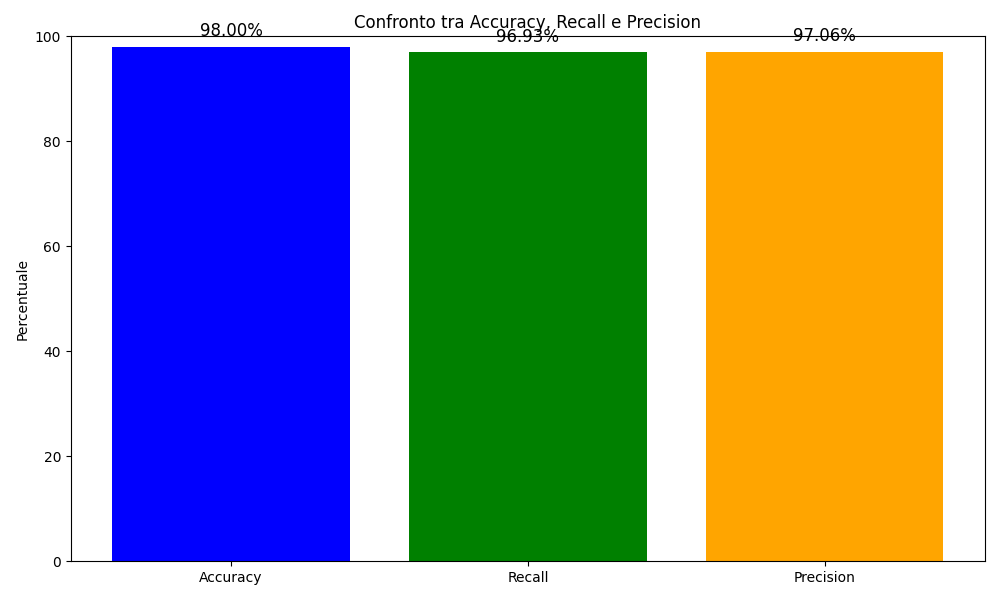
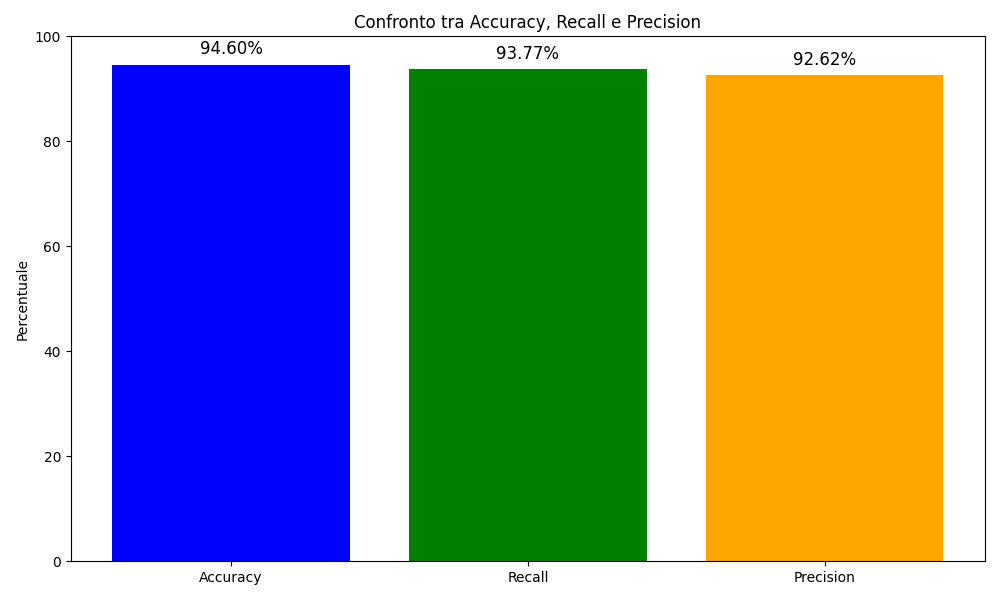
Fix: aggiunta normalizzazione al modello

Changed region(s): [[0.682, 0.03, 0.961, 0.15], [0.093, 0.03, 0.372, 0.12], [0.403, 0.03, 0.651, 0.12]]

diff --git a/model.py b/model.py
@@ -1,39 +1,38 @@
 from tensorflow.keras import layers, models, Sequential
 from tensorflow.keras.preprocessing.image import ImageDataGenerator
-from tensorflow.keras import optimizers
 import tensorflow as tf
 
-import tensorflow as tf
-from tensorflow.keras import layers, Sequential
-
-
-def create_model(input_shape=(None, None, 3), num_classes=43):
-    """Definisce e restituisce il modello CNN con normalizzazione e regolarizzazione."""
+def create_model(input_shape=(30, 30, 3), num_classes=43):
+    """Definisce e restituisce il modello CNN con l'architettura aggiornata e Batch Normalization."""
     model = Sequential()
+
+    # Primo blocco di convoluzione
     model.add(layers.Conv2D(filters=32, kernel_size=(5, 5), activation='relu', input_shape=input_shape))
-    model.add(layers.BatchNormalization())
-    model.add(layers.Conv2D(filters=64, kernel_size=(5, 5), activation='relu'))
-    model.add(layers.BatchNormalization())
+    model.add(layers.BatchNormalization())  # <-- Batch Normalization
+    model.add(layers.Conv2D(filters=64, kernel_size=(3, 3), activation='relu'))
+    model.add(layers.BatchNormalization())  # <-- Batch Normalization
     model.add(layers.MaxPool2D(pool_size=(2, 2)))
     model.add(layers.Dropout(rate=0.15))
+
+    # Secondo blocco di convoluzione
     model.add(layers.Conv2D(filters=128, kernel_size=(3, 3), activation='relu'))
-    model.add(layers.BatchNormalization())
-    model.add(layers.Conv2D(filters=256, kernel_size=(3, 3), activation='relu'))
-    model.add(layers.BatchNormalization())
+    model.add(layers.BatchNormalization())  # <-- Batch Normalization
     model.add(layers.MaxPool2D(pool_size=(2, 2)))
-    model.add(layers.Dropout(rate=0.20))
-
-    # Sostituiamo Flatten con GlobalAveragePooling2D per input dinamici
-    model.add(layers.GlobalAveragePooling2D())
-
-    model.add(layers.Dense(512, activation='relu'))
-    model.add(layers.BatchNormalization())
     model.add(layers.Dropout(rate=0.25))
+
+    # Parte fully connected
+    model.add(layers.Flatten())
+    model.add(layers.Dense(256, activation='relu'))
+    model.add(layers.BatchNormalization())  # <-- Batch Normalization
+    model.add(layers.Dropout(rate=0.5))
     model.add(layers.Dense(num_classes, activation='softmax'))
 
-    model.compile(optimizer=tf.keras.optimizers.Adam(learning_rate=0.001),
-                  loss="categorical_crossentropy",
-                  metrics=["accuracy"])
+    # Compilazione del modello
+    model.compile(
+        optimizer=tf.keras.optimizers.Adam(learning_rate=0.001),
+        loss='categorical_crossentropy',
+        metrics=['accuracy']
+    )
 
     return model
 

diff --git a/main.py b/main.py
@@ -1,4 +1,4 @@
-import data_preprocessing
+from data_preprocessing import load_data, split_data, get_data_generators
 from model import create_model
 from training import train_model
 from evaluation import evaluate_model
@@ -12,22 +12,18 @@ dir = "../MoodRipple/gtsrb-german-traffic-sign"
 test_labels_path = "../MoodRipple/gtsrb-german-traffic-sign/Test.csv"
 train_labels_path = "../MoodRipple/gtsrb-german-traffic-sign/Train.csv"
 img_size = (30, 30)
-epochs = 20
+epochs = 15
 batch_size = 128
-model_save_path = "models/20_epoche/model.h5"
+model_save_path = "models/15_epoche/model.h5"
 
 def main():
     # Caricamento e preprocessing del dataset prima e dopo il bilanciamento
-    train_images_balanced, train_labels_balanced = data_preprocessing.load_data(train_labels_path, dir)
-    test_images, test_labels = data_preprocessing.load_data(test_labels_path, dir)
+    train_images, train_labels = load_data(train_labels_path, dir, img_size)
+    train_images, val_images, train_labels, val_labels = split_data(train_images, train_labels)
 
-
-
-    # Suddivisione in training e validation
-    train_images, val_images, train_labels, val_labels = data_preprocessing.split_data(train_images_balanced, train_labels_balanced)
-
+    test_images, test_labels = load_data(test_labels_path, dir, img_size)
     # Creazione dei generatori
-    train_generator, val_generator = data_preprocessing.get_data_generators(train_images, train_labels, val_images, val_labels, batch_size)
+    train_generator, val_generator = get_data_generators(train_images, train_labels, val_images, val_labels, batch_size)
 
     # Calcolo dei pesi delle classi per bilanciare il training
     y_train = np.argmax(train_labels, axis=1)
@@ -38,7 +34,7 @@ def main():
     print("[INFO] Pesi delle classi calcolati in main.py:", class_weights)
 
     # Creazione del modello
-    model = create_model(input_shape=(None,None, 3), num_classes=num_classes)
+    model = create_model(input_shape=(img_size[0], img_size[1], 3), num_classes=train_labels.shape[1])
 
     # Addestramento del modello con pesi delle classi calcolati
     history = train_model(model, train_generator, val_generator, num_classes, epochs, class_weights=class_weights)

diff --git a/gui/app.py b/gui/app.py
@@ -14,7 +14,7 @@ os.makedirs(UPLOAD_FOLDER, exist_ok=True)
 app.config["UPLOAD_FOLDER"] = UPLOAD_FOLDER
 
 # Caricamento del modello
-model_path = "models/15_epoche/model.h5"
+model_path = "models/20_epoche/model.h5"
 model = tf.keras.models.load_model(model_path)
 
 # Dizionario delle classi
@@ -34,7 +34,7 @@ classes = {
 }
 
 # Funzione di preprocessing per le immagini
-def preprocess_image(image_path, target_size=(50, 50)):
+def preprocess_image(image_path, target_size=(30, 30)):
     img = cv2.imread(image_path)
     img = cv2.resize(img, target_size)
     img = np.expand_dims(img, axis=0) / 255.0  # Normalizzazione

diff --git a/data_preprocessing.py b/data_preprocessing.py
@@ -70,7 +70,13 @@ def get_data_generators(train_images, train_labels, val_images, val_labels, batc
         horizontal_flip=False,
         fill_mode='nearest'
     )
-    val_datagen = ImageDataGenerator()
+    val_datagen = ImageDataGenerator(rotation_range=15,
+        width_shift_range=0.3,
+        height_shift_range=0.3,
+        shear_range=0.1,
+        zoom_range=0.1,
+        horizontal_flip=False,
+        fill_mode='nearest')
 
     train_generator = train_datagen.flow(train_images, train_labels, batch_size=batch_size)
     val_generator = val_datagen.flow(val_images, val_labels, batch_size=batch_size)
